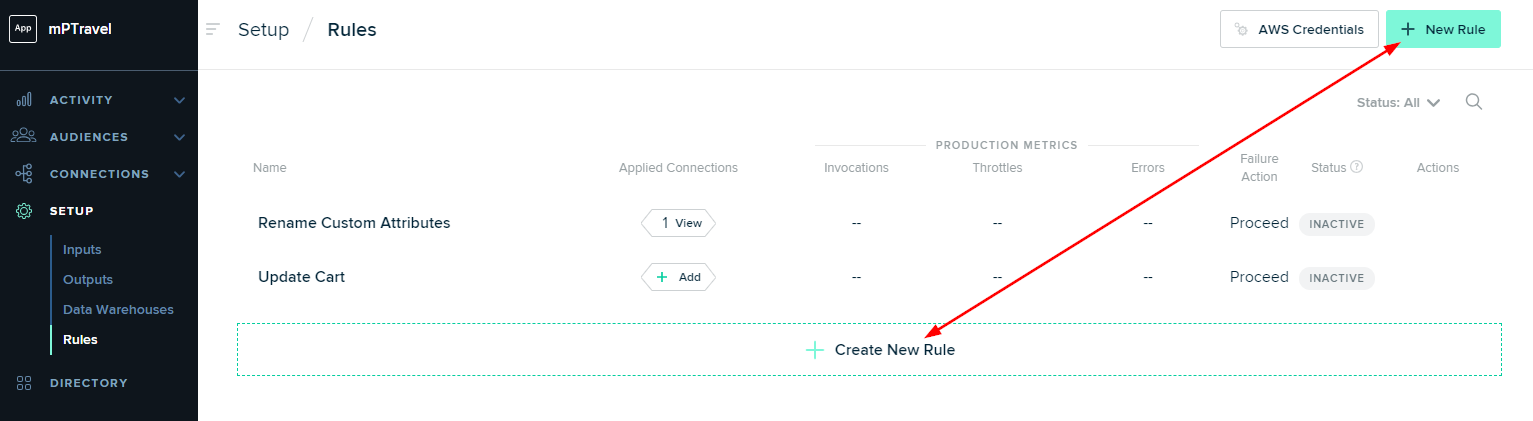
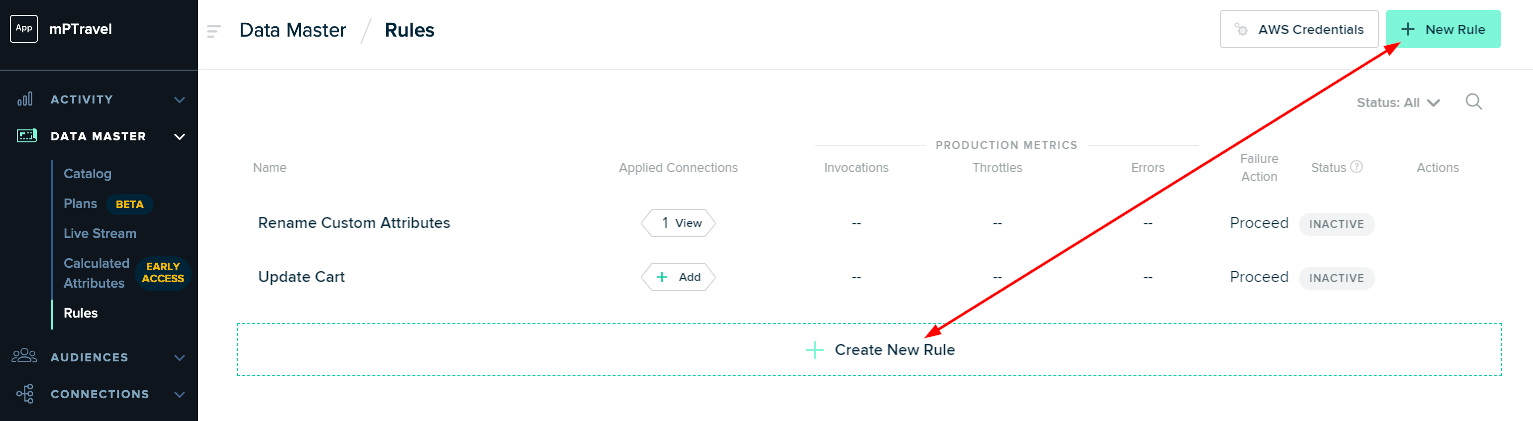
Update Rules Screenshots (#1569)
* Update Rules Screenshots

* Update Rules

diff --git a/src/pages/guides/platform-guide/rules/index.md b/src/pages/guides/platform-guide/rules/index.md
@@ -128,7 +128,7 @@ Assign this role to each Lambda function you plan to deploy as an mParticle Rule
 
 ## Creating a Rule in the Dashboard
 
-1. Create a Rule by navigating to **Setup > Rules** 
+1. Create a Rule by navigating to **Data Master > Rules** 
 2. Click **New Rule**.
 
 ![Rules](/images/Platform-Update-Rules-Overview-042019.png)
